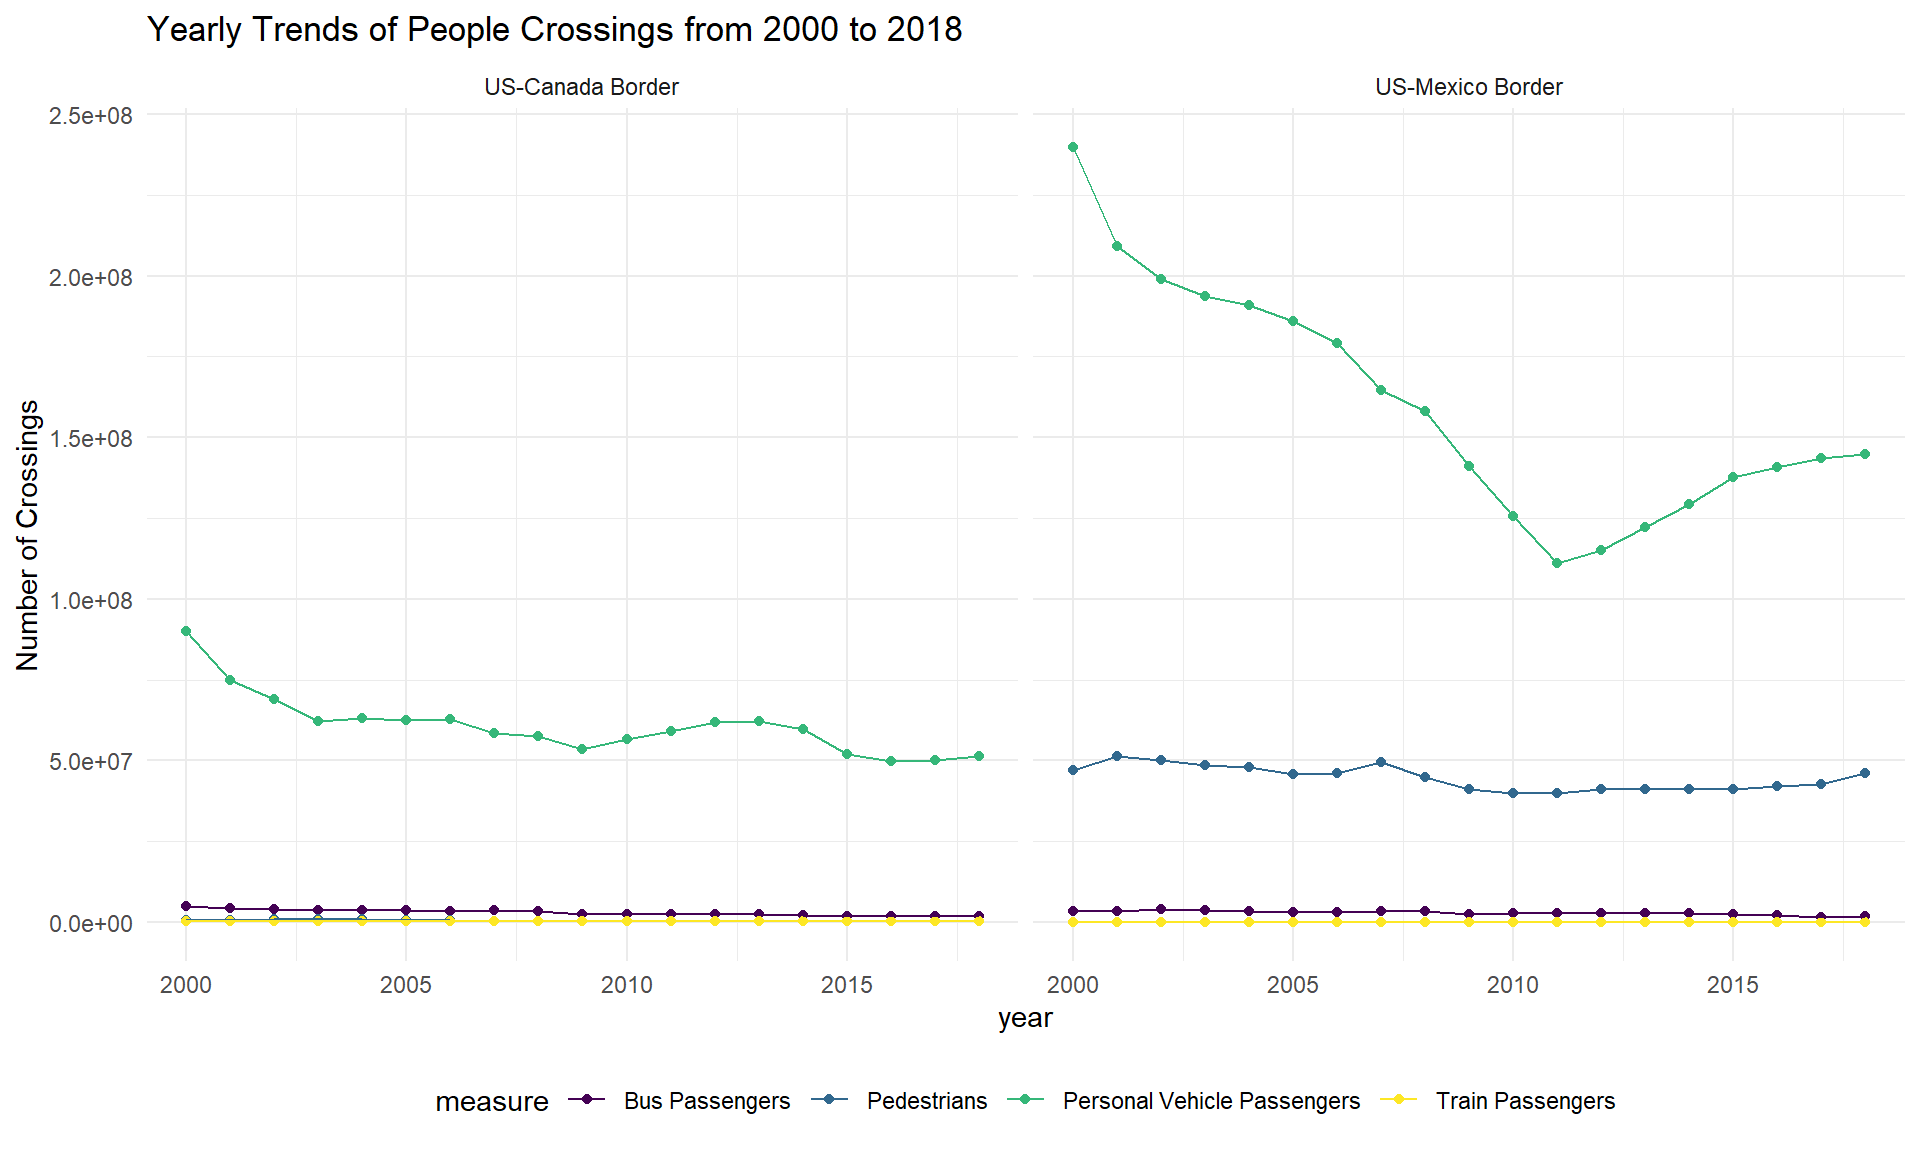
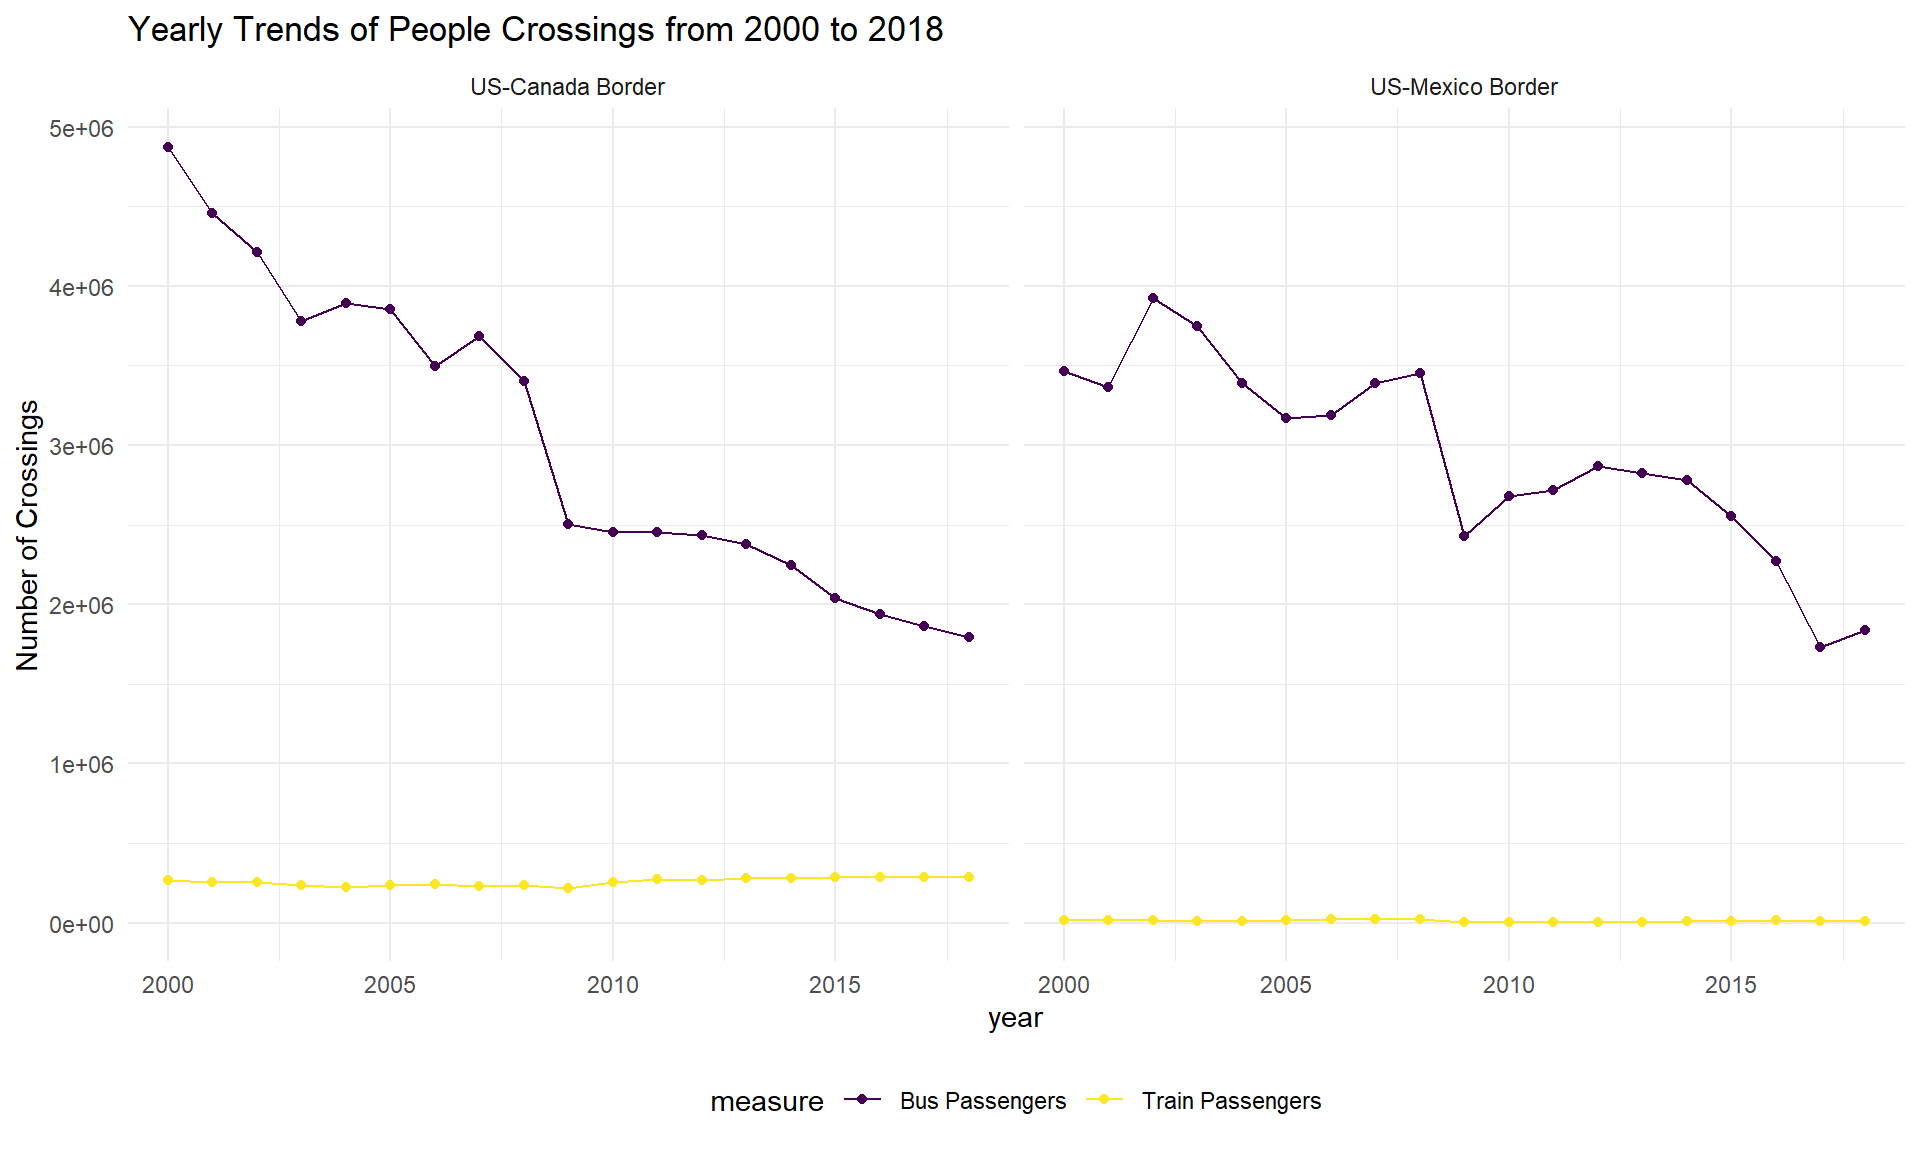
people crossings

diff --git a/crossings_people.html b/crossings_people.html
@@ -25,6 +25,17 @@
 <script src="site_libs/navigation-1.1/tabsets.js"></script>
 <link href="site_libs/highlightjs-9.12.0/default.css" rel="stylesheet" />
 <script src="site_libs/highlightjs-9.12.0/highlight.js"></script>
+<link href="site_libs/anchor-sections-1.0/anchor-sections.css" rel="stylesheet" />
+<script src="site_libs/anchor-sections-1.0/anchor-sections.js"></script>
+
+<style type="text/css">
+  code{white-space: pre-wrap;}
+  span.smallcaps{font-variant: small-caps;}
+  span.underline{text-decoration: underline;}
+  div.column{display: inline-block; vertical-align: top; width: 50%;}
+  div.hanging-indent{margin-left: 1.5em; text-indent: -1.5em;}
+  ul.task-list{list-style: none;}
+    </style>
 
 <style type="text/css">code{white-space: pre;}</style>
 <style type="text/css">
@@ -396,13 +407,13 @@ div.tocify {
 <p>Methods of passenger travel</p>
 <p>Number of passengers over time</p>
 <pre class="r"><code>border_crossing_df = readRDS(file = &quot;border_crossing_df_clean.rds&quot;)</code></pre>
-<pre class="r"><code>people_yearly &lt;-
+<pre class="r"><code>people_yearly_1 &lt;-
 border_crossing_df %&gt;%
-  filter(measure %in% c(&quot;Personal Vehicle Passengers&quot;,&quot;Pedestrians&quot;,&quot;Bus Passengers&quot;, &quot;Train Passengers&quot;)) %&gt;%
+  filter(measure %in% c(&quot;Bus Passengers&quot;, &quot;Train Passengers&quot;)) %&gt;%
   group_by(border, measure, year) %&gt;%
   summarize(num = sum(value))</code></pre>
 <pre><code>## `summarise()` regrouping output by &#39;border&#39;, &#39;measure&#39; (override with `.groups` argument)</code></pre>
-<pre class="r"><code>people_yearly %&gt;%
+<pre class="r"><code>people_yearly_1 %&gt;%
     mutate(measure = as.factor(measure), border = as.factor(border)) %&gt;%
   ungroup() %&gt;%
   ggplot(aes(x = year, y = num , group = measure , color = measure)) +
@@ -415,6 +426,25 @@ border_crossing_df %&gt;%
        y = &quot;Number of Crossings&quot;, 
        color = &quot;measure&quot;)</code></pre>
 <p><img src="crossings_people_files/figure-html/unnamed-chunk-3-1.png" width="90%" /></p>
+<pre class="r"><code>people_yearly_2 &lt;-
+border_crossing_df %&gt;%
+  filter(measure %in% c(&quot;Personal Vehicle Passengers&quot;,&quot;Pedestrians&quot;)) %&gt;%
+  group_by(border, measure, year) %&gt;%
+  summarize(num = sum(value))</code></pre>
+<pre><code>## `summarise()` regrouping output by &#39;border&#39;, &#39;measure&#39; (override with `.groups` argument)</code></pre>
+<pre class="r"><code>people_yearly_2 %&gt;%
+    mutate(measure = as.factor(measure), border = as.factor(border)) %&gt;%
+  ungroup() %&gt;%
+  ggplot(aes(x = year, y = num , group = measure , color = measure)) +
+  geom_point() +
+  geom_line() +
+  facet_grid(~border) +
+  theme(legend.position = &quot;bottom&quot;) + 
+  labs(title = &quot;Yearly Trends of People Crossings from 2000 to 2018&quot;,
+       x = &quot;year&quot;, 
+       y = &quot;Number of Crossings&quot;, 
+       color = &quot;measure&quot;)</code></pre>
+<p><img src="crossings_people_files/figure-html/unnamed-chunk-4-1.png" width="90%" /></p>
 </div>
 
 
@@ -428,7 +458,7 @@ border_crossing_df %&gt;%
 
 // add bootstrap table styles to pandoc tables
 function bootstrapStylePandocTables() {
-  $('tr.header').parent('thead').parent('table').addClass('table table-condensed');
+  $('tr.odd').parent('tbody').parent('table').addClass('table table-condensed');
 }
 $(document).ready(function () {
   bootstrapStylePandocTables();

diff --git a/site_libs/navigation-1.1/codefolding.js b/site_libs/navigation-1.1/codefolding.js
@@ -22,21 +22,21 @@ window.initializeCodeFolding = function(show) {
 
     // create a collapsable div to wrap the code in
     var div = $('<div class="collapse r-code-collapse"></div>');
-    show = (show || $(this).hasClass('fold-show')) && !$(this).hasClass('fold-hide');
-    if (show) div.addClass('in');
+    var showThis = (show || $(this).hasClass('fold-show')) && !$(this).hasClass('fold-hide');
+    if (showThis) div.addClass('in');
     var id = 'rcode-643E0F36' + currentIndex++;
     div.attr('id', id);
     $(this).before(div);
     $(this).detach().appendTo(div);
 
     // add a show code button right above
-    var showCodeText = $('<span>' + (show ? 'Hide' : 'Code') + '</span>');
+    var showCodeText = $('<span>' + (showThis ? 'Hide' : 'Code') + '</span>');
     var showCodeButton = $('<button type="button" class="btn btn-default btn-xs code-folding-btn pull-right"></button>');
     showCodeButton.append(showCodeText);
     showCodeButton
         .attr('data-toggle', 'collapse')
         .attr('data-target', '#' + id)
-        .attr('aria-expanded', show)
+        .attr('aria-expanded', showThis)
         .attr('aria-controls', id);
 
     var buttonRow = $('<div class="row"></div>');
